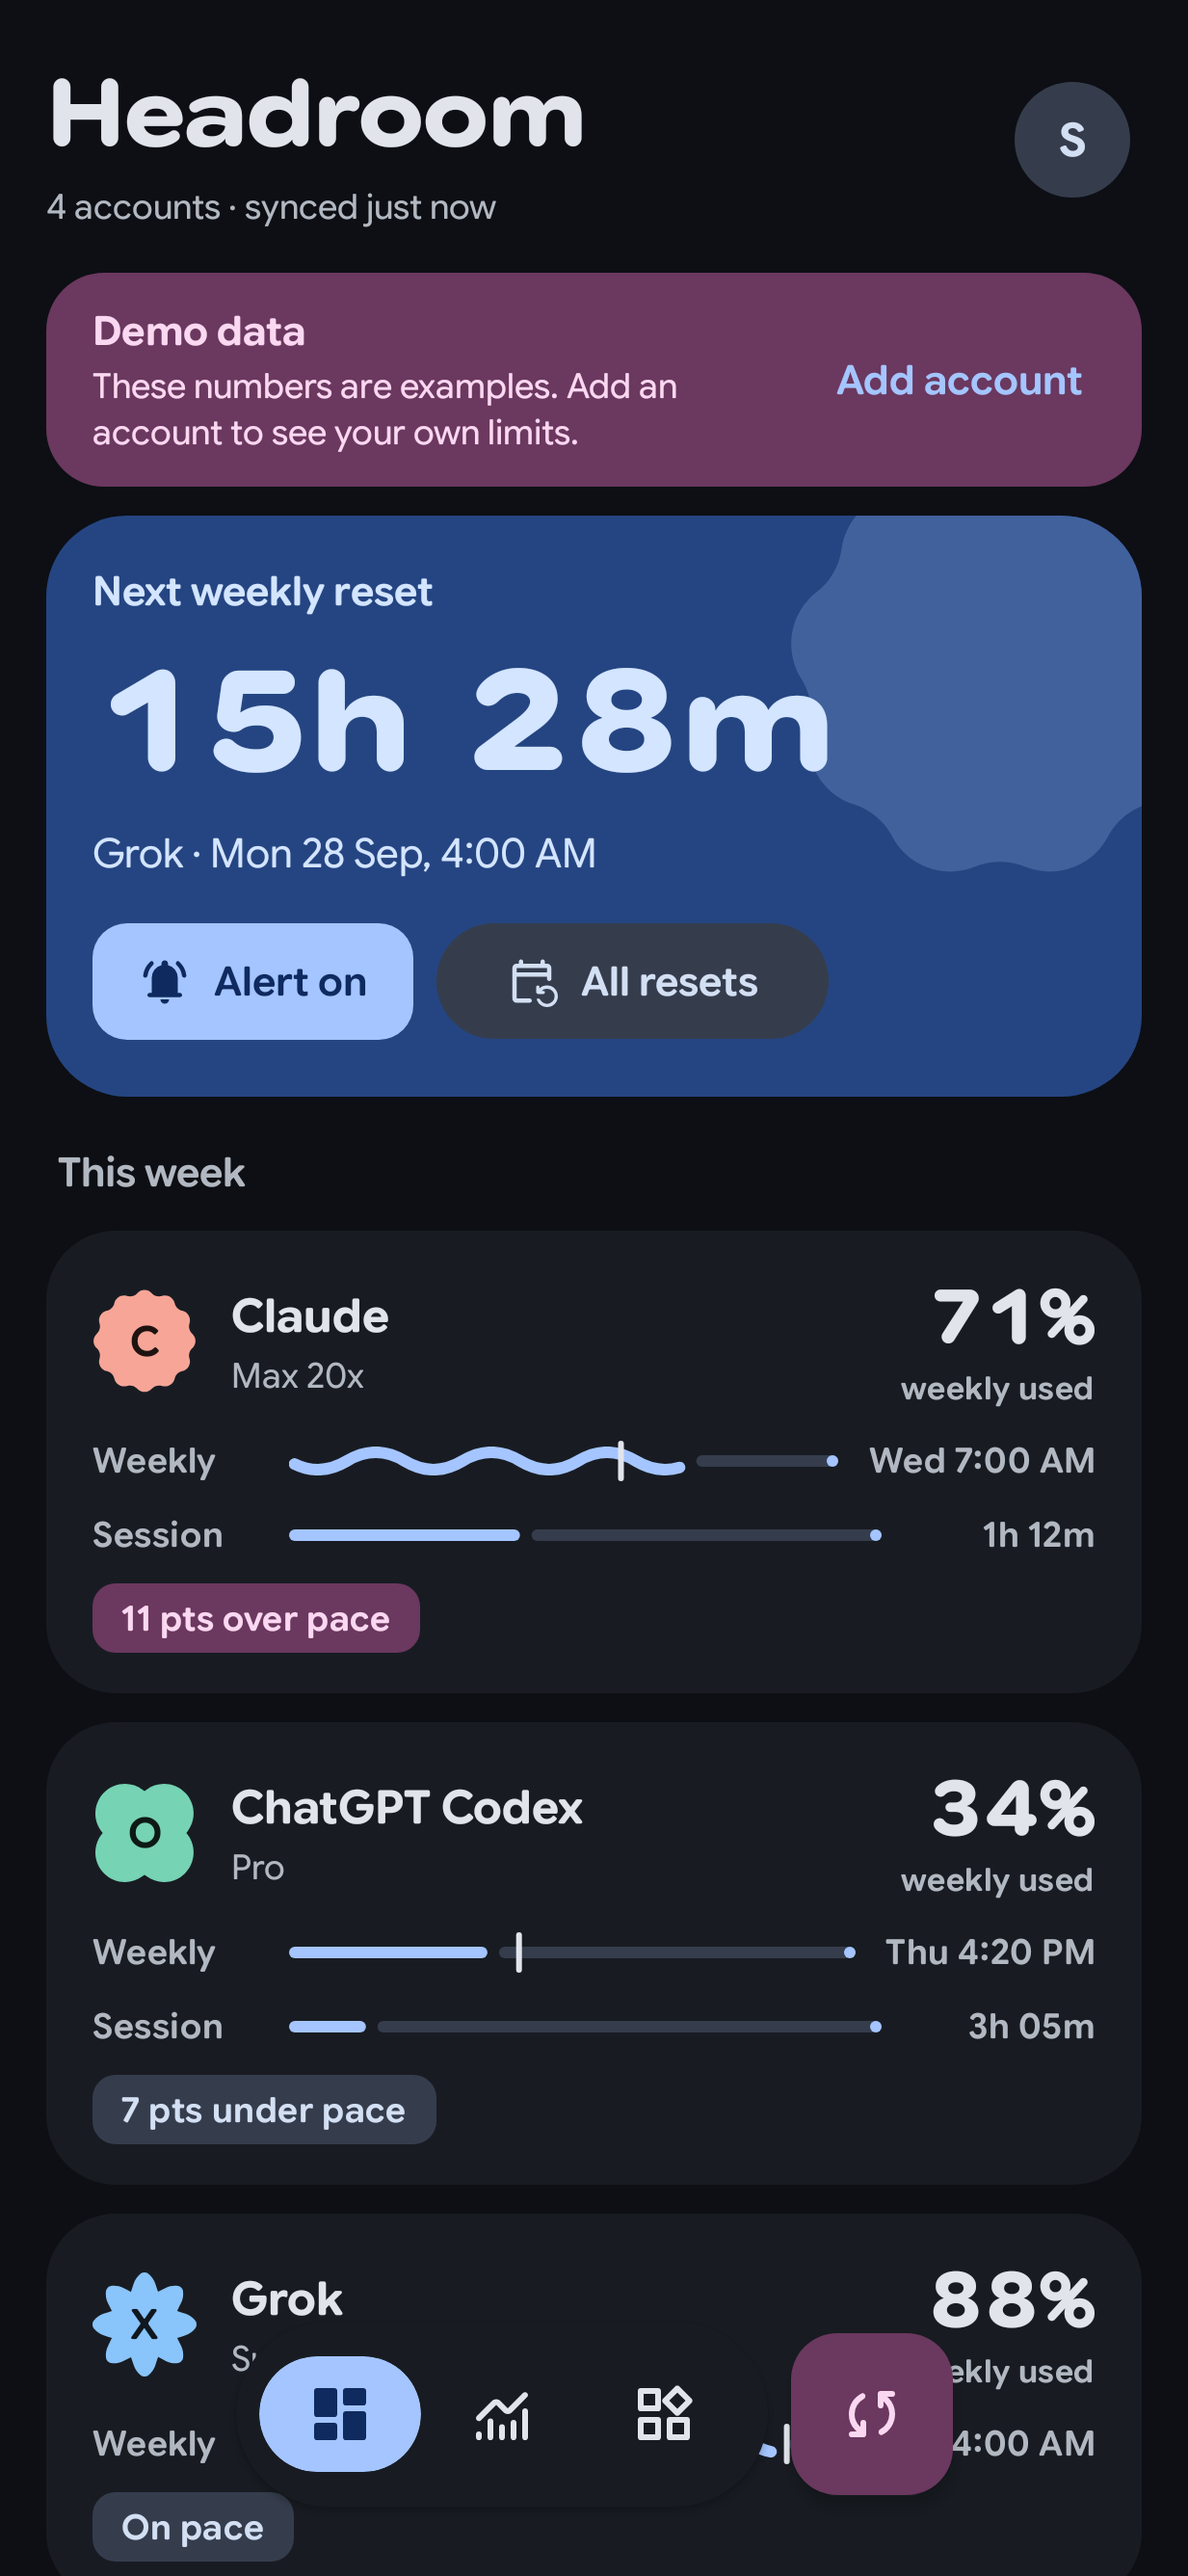
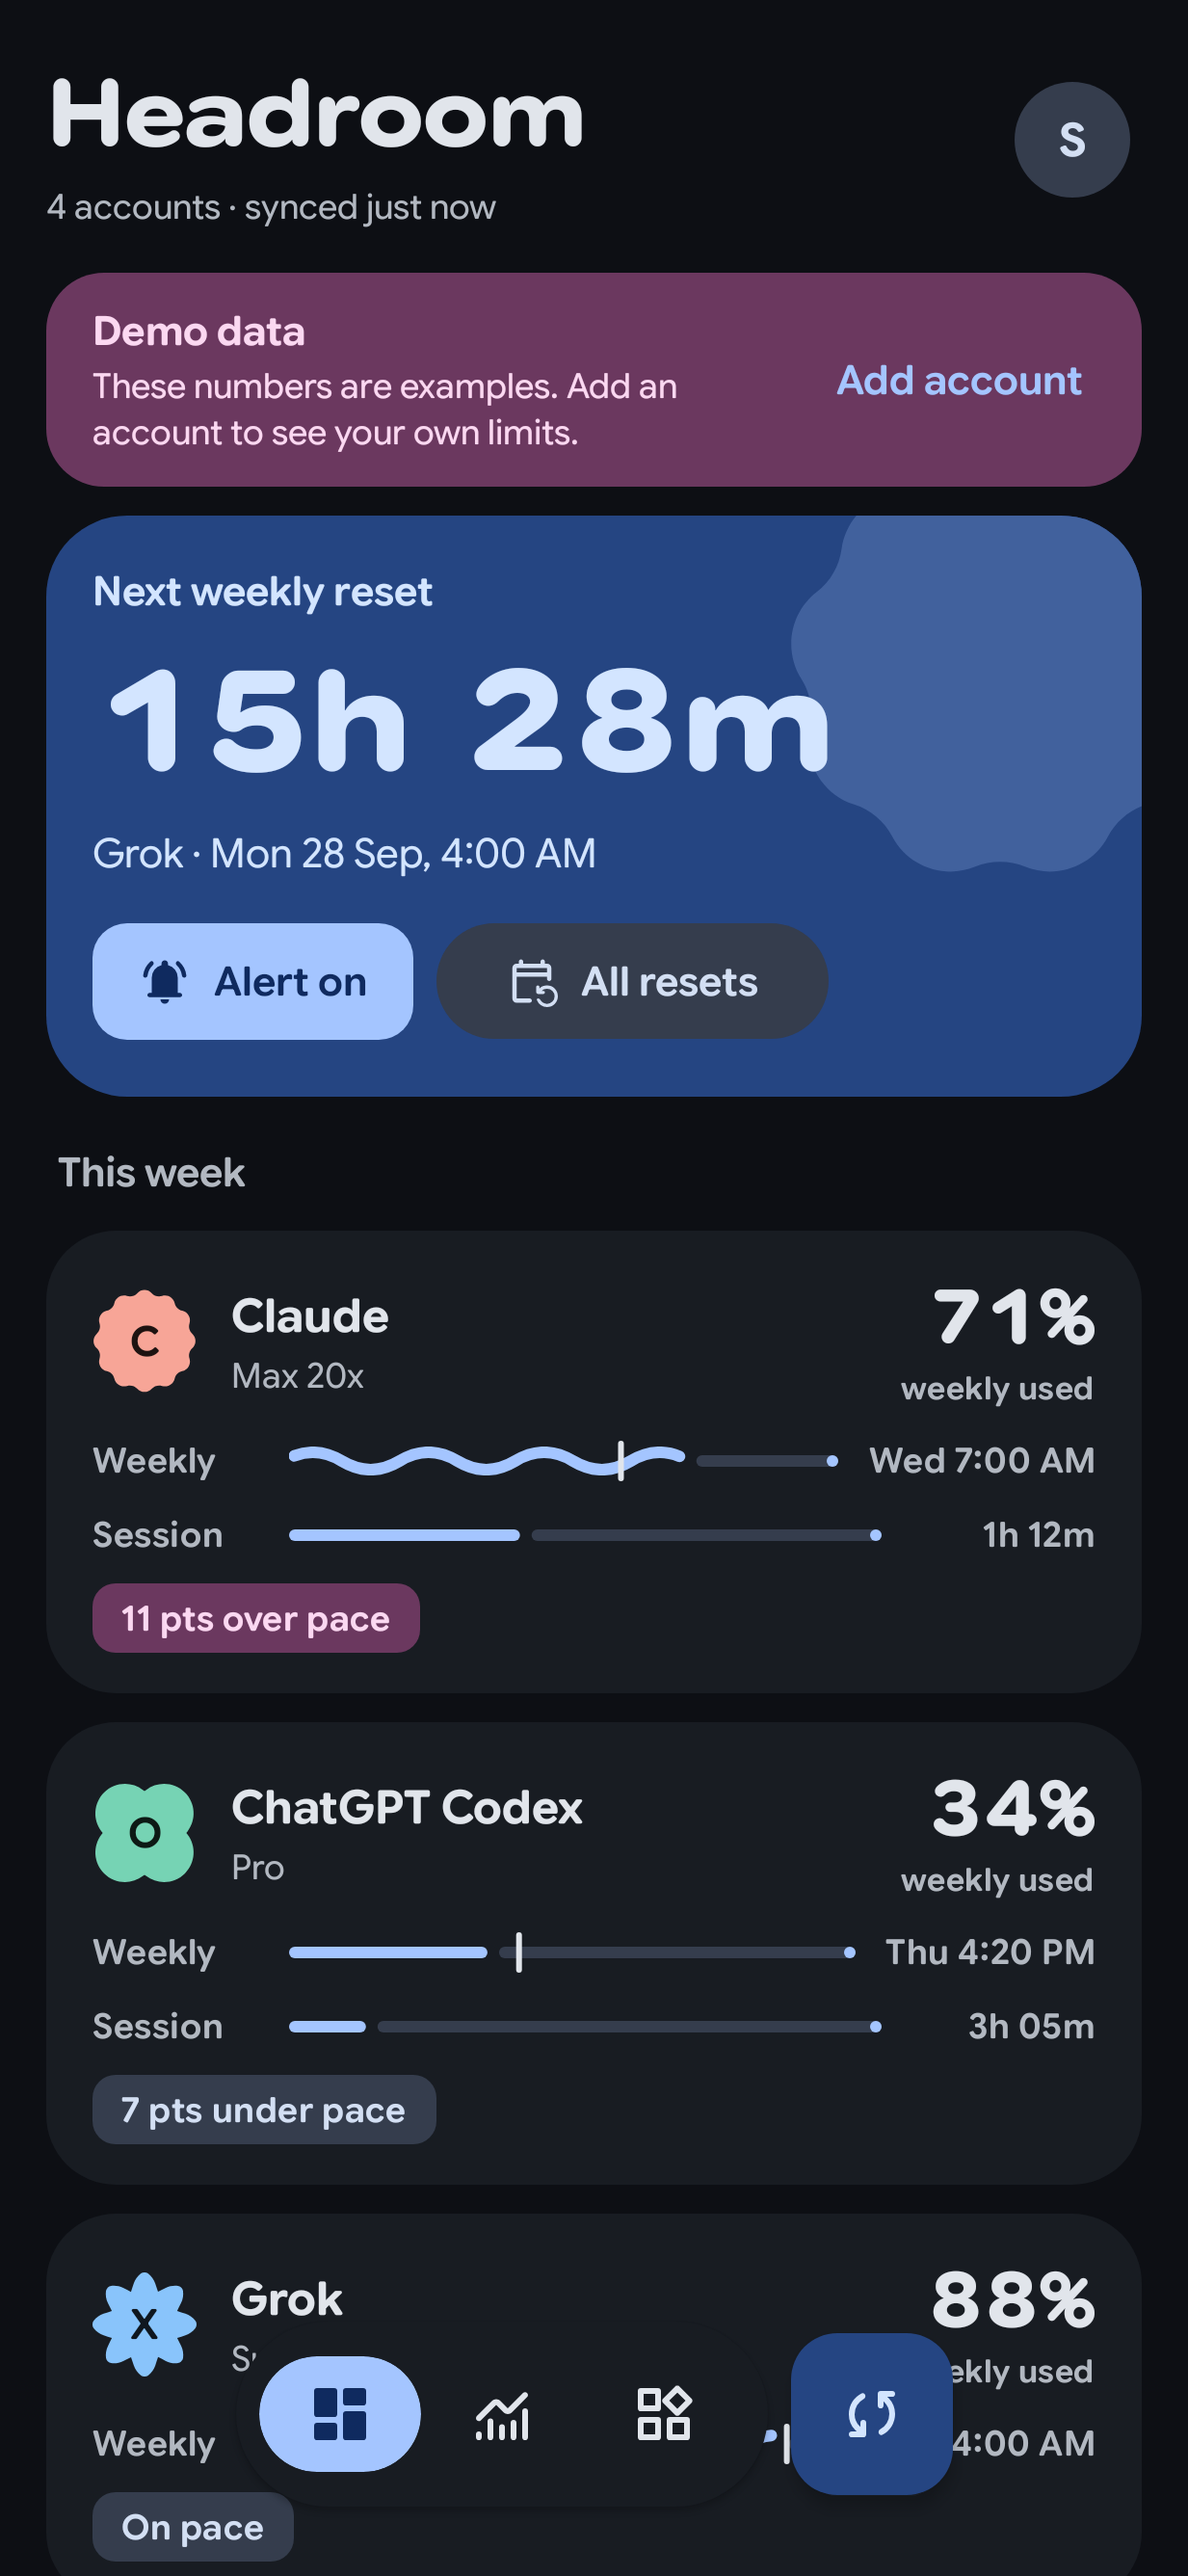
Soften the ring wave and use the primary container for refresh
The wavy hero ring now draws its own low, long wave. Material's wavy
indicator only shows a partial amplitude after animating into it, so a
gentler wave stayed flat whenever the ring turned wavy at rest. The
refresh button next to the toolbar and on the rail uses the primary
container instead of the vibrant tertiary tint. Screenshots are
re-recorded, drawing each frame so settled animations are captured.

Changed region(s): [[0.6472, 0.9005, 0.8013, 0.9936], [0.2466, 0.5589, 0.5856, 0.59]]

diff --git a/core/designsystem/src/main/kotlin/dev/sebastiano/headroom/designsystem/QuotaRing.kt b/core/designsystem/src/main/kotlin/dev/sebastiano/headroom/designsystem/QuotaRing.kt
@@ -1,24 +1,39 @@
 package dev.sebastiano.headroom.designsystem
 
 import androidx.compose.animation.core.Animatable
+import androidx.compose.animation.core.LinearEasing
+import androidx.compose.animation.core.animateFloat
+import androidx.compose.animation.core.infiniteRepeatable
+import androidx.compose.animation.core.rememberInfiniteTransition
+import androidx.compose.animation.core.tween
+import androidx.compose.foundation.Canvas
 import androidx.compose.foundation.layout.Box
 import androidx.compose.foundation.layout.BoxScope
 import androidx.compose.foundation.layout.size
 import androidx.compose.material3.CircularProgressIndicator
-import androidx.compose.material3.CircularWavyProgressIndicator
 import androidx.compose.material3.MaterialTheme
 import androidx.compose.runtime.Composable
 import androidx.compose.runtime.LaunchedEffect
+import androidx.compose.runtime.getValue
 import androidx.compose.runtime.remember
 import androidx.compose.ui.Alignment
 import androidx.compose.ui.Modifier
+import androidx.compose.ui.geometry.Offset
+import androidx.compose.ui.geometry.Size
 import androidx.compose.ui.graphics.Color
+import androidx.compose.ui.graphics.Path
 import androidx.compose.ui.graphics.StrokeCap
 import androidx.compose.ui.graphics.drawscope.Stroke
-import androidx.compose.ui.platform.LocalDensity
+import androidx.compose.ui.semantics.ProgressBarRangeInfo
+import androidx.compose.ui.semantics.progressBarRangeInfo
 import androidx.compose.ui.semantics.semantics
 import androidx.compose.ui.unit.Dp
 import androidx.compose.ui.unit.dp
+import kotlin.math.PI
+import kotlin.math.cos
+import kotlin.math.min
+import kotlin.math.roundToInt
+import kotlin.math.sin
 
 /**
  * The detail screen's hero ring: [progress] on the outer ring (the weekly window) and an optional
@@ -50,18 +65,18 @@ fun QuotaRing(
 
     val isWavy = wavy && animate && size >= MinWavySize
     val style = if (isWavy) IndicatorStyle.Wavy else IndicatorStyle.Flat
-    val strokePx = with(LocalDensity.current) { strokeWidth.toPx() }
     Box(modifier = modifier.size(size), contentAlignment = Alignment.Center) {
         val outerModifier = Modifier.size(size).semantics { indicatorStyle = style }
         if (isWavy) {
-            val stroke = remember(strokePx) { Stroke(width = strokePx, cap = StrokeCap.Round) }
-            CircularWavyProgressIndicator(
+            WavyRing(
                 progress = { outer.value },
-                modifier = outerModifier,
                 color = color,
                 trackColor = trackColor,
-                stroke = stroke,
-                trackStroke = stroke,
+                strokeWidth = strokeWidth,
+                modifier =
+                    outerModifier.semantics {
+                        progressBarRangeInfo = ProgressBarRangeInfo(outer.value, 0f..1f)
+                    },
             )
         } else {
             CircularProgressIndicator(
@@ -90,3 +105,79 @@ fun QuotaRing(
 /** Below this size the wave reads as noise, so small rings are always flat. */
 private val MinWavySize = 100.dp
 private val InnerGap = 8.dp
+
+/**
+ * A gentle wave on the ring's radius, drawn here rather than with Material's wavy indicator: that
+ * one only renders a partial amplitude after it has animated into it, so a ring that turns wavy at
+ * rest (after a refresh, or when first drawn at its value) would stay flat. The wave eases in and
+ * out at both ends of the arc, and its phase moves on the Compose clock, so it stops when
+ * animations are off.
+ */
+@Composable
+private fun WavyRing(
+    progress: () -> Float,
+    color: Color,
+    trackColor: Color,
+    strokeWidth: Dp,
+    modifier: Modifier = Modifier,
+) {
+    val phase by
+        rememberInfiniteTransition(label = "wave")
+            .animateFloat(
+                initialValue = 0f,
+                targetValue = FULL_TURN,
+                animationSpec =
+                    infiniteRepeatable(tween(WAVE_PERIOD_MILLIS, easing = LinearEasing)),
+                label = "wave phase",
+            )
+    Canvas(modifier = modifier) {
+        val stroke = strokeWidth.toPx()
+        val amplitude = WaveAmplitude.toPx()
+        val radius = size.minDimension / 2 - stroke / 2 - amplitude
+        val center = Offset(size.width / 2, size.height / 2)
+        val sweep = progress().coerceIn(0f, 1f) * FULL_TURN
+        val start = -HALF_PI
+        val gap = (stroke + TrackGap.toPx()) / radius
+        val style = Stroke(width = stroke, cap = StrokeCap.Round)
+        if (sweep < FULL_TURN - gap * 2) {
+            val trackStart = if (sweep > 0f) sweep + gap else 0f
+            val trackSweep = FULL_TURN - trackStart - if (sweep > 0f) gap else 0f
+            drawArc(
+                color = trackColor,
+                startAngle = Math.toDegrees((start + trackStart).toDouble()).toFloat(),
+                sweepAngle = Math.toDegrees(trackSweep.toDouble()).toFloat(),
+                useCenter = false,
+                topLeft = Offset(center.x - radius, center.y - radius),
+                size = Size(radius * 2, radius * 2),
+                style = style,
+            )
+        }
+        if (sweep <= 0f) return@Canvas
+        val waves = (FULL_TURN * radius / WaveLength.toPx()).roundToInt().coerceAtLeast(MIN_WAVES)
+        val taper = WaveTaper.toPx() / radius
+        val steps = (sweep * radius / STEP_PX).roundToInt().coerceAtLeast(MIN_STEPS)
+        val path = Path()
+        for (index in 0..steps) {
+            val along = sweep * index / steps
+            val ease = min(1f, min(along / taper, (sweep - along) / taper + TAPER_FLOOR))
+            val r = radius + amplitude * ease * sin(waves * along - phase)
+            val angle = start + along
+            val x = center.x + r * cos(angle)
+            val y = center.y + r * sin(angle)
+            if (index == 0) path.moveTo(x, y) else path.lineTo(x, y)
+        }
+        drawPath(path, color = color, style = style)
+    }
+}
+
+private val WaveAmplitude = 1.8.dp
+private val WaveLength = 28.dp
+private val WaveTaper = 10.dp
+private val TrackGap = 4.dp
+private const val FULL_TURN = (2 * PI).toFloat()
+private const val HALF_PI = (PI / 2).toFloat()
+private const val TAPER_FLOOR = 0.3f
+private const val STEP_PX = 1.5f
+private const val MIN_STEPS = 12
+private const val MIN_WAVES = 6
+private const val WAVE_PERIOD_MILLIS = 1_600

diff --git a/app/src/test/kotlin/dev/sebastiano/headroom/ui/ScreenshotTest.kt b/app/src/test/kotlin/dev/sebastiano/headroom/ui/ScreenshotTest.kt
@@ -1,6 +1,7 @@
 package dev.sebastiano.headroom.ui
 
 import androidx.activity.ComponentActivity
+import androidx.compose.ui.test.captureToImage
 import androidx.compose.ui.test.hasTestTag
 import androidx.compose.ui.test.junit4.v2.createAndroidComposeRule
 import androidx.compose.ui.test.onNodeWithContentDescription
@@ -36,6 +37,8 @@ class ScreenshotTest {
     @get:Rule val rule = createAndroidComposeRule<ComponentActivity>()
 
     private fun launch(dark: Boolean = false) {
+        // Frames are driven by capture(), so that animations are drawn while they run.
+        rule.mainClock.autoAdvance = false
         rule.setContent {
             HeadroomTheme(darkTheme = dark, dynamicColor = false) {
                 HeadroomApp(graph = testGraph(rule.activity))
@@ -44,7 +47,12 @@ class ScreenshotTest {
     }
 
     private fun capture(name: String) {
-        rule.waitForIdle()
+        // Robolectric only draws when asked. The wavy ring builds its wave while its sweep-in
+        // animation is drawn, so draw every step until transitions and sweeps have settled.
+        repeat(SETTLE_STEPS) {
+            rule.mainClock.advanceTimeBy(STEP_MILLIS)
+            rule.onRoot().captureToImage()
+        }
         rule.onRoot().captureRoboImage(screenshot(name))
     }
 
@@ -100,6 +108,8 @@ class ScreenshotTest {
     @Test
     fun signInDeviceCode() {
         launch()
+        // Several steps in a row: let the clock run between them.
+        rule.mainClock.autoAdvance = true
         rule.onNodeWithContentDescription("Accounts").performClick()
         rule.onNodeWithText("Add account").performClick()
         rule
@@ -112,6 +122,8 @@ class ScreenshotTest {
     @Test
     fun signInBrowser() {
         launch()
+        // Several steps in a row: let the clock run between them.
+        rule.mainClock.autoAdvance = true
         rule.onNodeWithContentDescription("Accounts").performClick()
         rule.onNodeWithText("Add account").performClick()
         rule.onNodeWithTag(providerOptionTag(Provider.Claude)).performClick()
@@ -143,6 +155,8 @@ class ScreenshotTest {
 
 /** Header, demo banner, next reset, section label, Claude, Codex, then Grok. */
 private const val GROK_INDEX = 6
+private const val SETTLE_STEPS = 40
+private const val STEP_MILLIS = 50L
 private const val PHONE = "w411dp-h891dp-xxhdpi"
 private const val MEDIUM = "w700dp-h1000dp-xhdpi"
 private const val EXPANDED = "w1280dp-h800dp-xhdpi"

diff --git a/app/src/main/kotlin/dev/sebastiano/headroom/ui/HomeScaffold.kt b/app/src/main/kotlin/dev/sebastiano/headroom/ui/HomeScaffold.kt
@@ -366,10 +366,18 @@ private fun RefreshButton(refreshing: Boolean, onRefresh: () -> Unit, inToolbar:
         FloatingToolbarDefaults.VibrantFloatingActionButton(
             onClick = onRefresh,
             modifier = modifier,
+            containerColor = MaterialTheme.colorScheme.primaryContainer,
+            contentColor = MaterialTheme.colorScheme.onPrimaryContainer,
             content = content,
         )
     } else {
-        FloatingActionButton(onClick = onRefresh, modifier = modifier, content = content)
+        FloatingActionButton(
+            onClick = onRefresh,
+            modifier = modifier,
+            containerColor = MaterialTheme.colorScheme.primaryContainer,
+            contentColor = MaterialTheme.colorScheme.onPrimaryContainer,
+            content = content,
+        )
     }
 }
 
